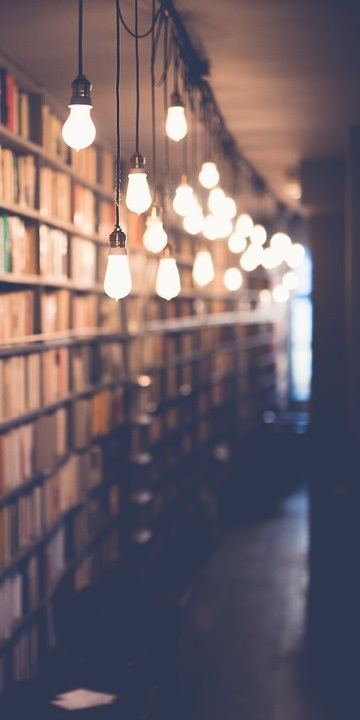
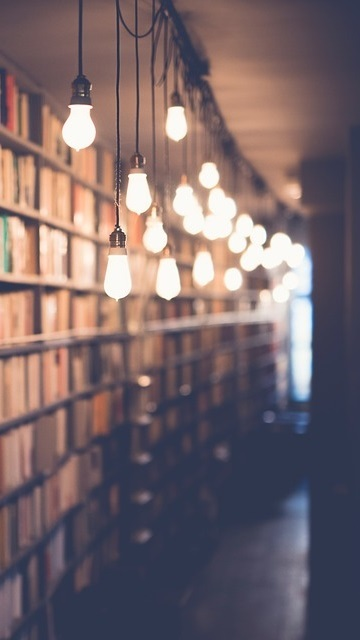
모바일 페이지 배경그림 수정
main_con_m.jpg

diff --git a/css/pc960/main_contents.css b/css/pc960/main_contents.css
@@ -242,8 +242,6 @@ body {
         width: 360px;
         background-attachment: fixed;
         background-image: url(../../img/main_con_m.jpg);
-        max-width: 360px;
-        min-width: 320px;
     }
     /* 모바일용 폰트 크기 */
     #MAI_content h2 { font-size: 50px; }
